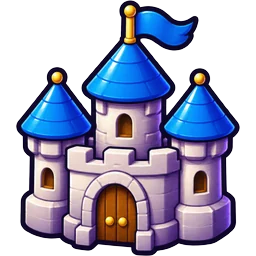
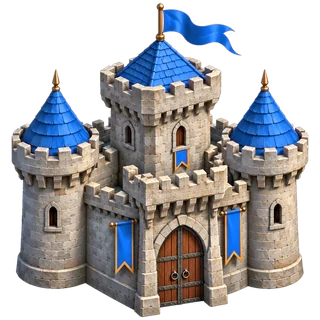
Castillos nuevos en 3D, más grandes y con halo del color del jugador
Claude-Session: https://claude.ai/code/session_017B3LDoPLe1g1uFpqTwMreP

diff --git a/backend/public/js/conquista.js b/backend/public/js/conquista.js
@@ -381,8 +381,10 @@
       if (castleOf) {
         const g = svgEl('g', {}, castleOf.eliminated ? 'castle dead' : 'castle');
         g.dataset.player = castleOf.id;
-        g.append(svgEl('ellipse', { cx: r.cx, cy: r.cy + 16, rx: 46, ry: 13 }, 'castle-shadow'));
-        const icon = svgEl('image', { x: r.cx - 58, y: r.cy - 96, width: 116, height: 116 }, 'castle-img');
+        const halo = svgEl('ellipse', { cx: r.cx, cy: r.cy + 14, rx: 62, ry: 18 }, 'castle-halo');
+        halo.style.fill = castleOf.color;
+        g.append(svgEl('ellipse', { cx: r.cx, cy: r.cy + 16, rx: 56, ry: 15 }, 'castle-shadow'), halo);
+        const icon = svgEl('image', { x: r.cx - 78, y: r.cy - 132, width: 156, height: 156 }, 'castle-img');
         icon.setAttribute('href', FX.castleSrc(castleOf.color));
         g.appendChild(icon);
         // Torres que le quedan: tres escuditos (llenos o vacíos).

diff --git a/backend/public/js/fx.js b/backend/public/js/fx.js
@@ -668,7 +668,7 @@
   const screen = (el) => retrigger(el, 'screen-in', 450);
 
   const CASTLE_BY_COLOR = { '#e5484d': 'rojo', '#3e8ef7': 'azul', '#2fbf71': 'verde' };
-  const castleSrc = (color) => `/img/castillo-${CASTLE_BY_COLOR[String(color).toLowerCase()] || 'rojo'}.webp`;
+  const castleSrc = (color) => `/img/castillo-${CASTLE_BY_COLOR[String(color).toLowerCase()] || 'rojo'}.webp?v=2`;
 
   // ---------- botón de sonido en la cabecera ----------
   function soundButton() {

diff --git a/backend/public/styles.css b/backend/public/styles.css
@@ -1257,3 +1257,5 @@ body.cq-playing .cq-player { padding: 4px 6px; }
 @media (prefers-reduced-motion: reduce) {
   .cq-map .region.pickable, .cq-map .swords { animation: none; }
 }
+.cq-map .castle-halo { opacity: 0.55; }
+.cq-map .castle.dead .castle-halo { opacity: 0.15; }

diff --git a/REZUMAT.md b/REZUMAT.md
@@ -202,7 +202,7 @@ Obiectiv: jocul să arate „ca un joc adevărat”, nu ca un site. Idei, în or
 ## 5l. Grafica Conquistei și sunete (ramura `grafica-sonidos`)
 - Harta e generată din nou din es-atlas, cu mai multe detalii (scriptul de generare nu e în repo; păstrează aceleași id-uri, centre și vecini). Aspect de „machetă”: spumă pe coastă, grosime maro sub regiuni, degradeuri pe culori, cifrele în insigne rotunde, turnurile castelului ca 3 scuturi aurii, ⚔ pe regiunea atacată, regiunile de ales se ridică și strălucesc. Fără pătratul de la atingere (tap highlight).
 - În partidă pagina ocupă tot ecranul, fără scroll: întrebarea stă într-o „foaie” peste partea de jos a hărții; harta se micșorează cât să încapă în spațiul rămas (acoperită cel mult ~45%).
-- Sunete sintetizate în `fx.js`: tobe de război la începutul bătăliei, redoblare + săbii la fiecare luptă, corn când e rândul tău, fanfară la început, fanfară când cucerești, trompete triste când pierzi o regiune, castel care se prăbușește, scut la apărare, fanfară regală la victorie. Muzică medievală de lăută în meniu (prima pagină, așteptare, meniurile +18). Butonul de sunet are 3 stări: 🎶 muzică + efecte → 🔊 doar efecte → 🔇.
+- Sunete sintetizate în `fx.js`: tobe de război la începutul bătăliei, redoblare + săbii la fiecare luptă, corn când e rândul tău, fanfară la început, fanfară când cucerești, trompete triste când pierzi o regiune, castel care se prăbușește, scut la apărare, fanfară regală la victorie. Muzică medievală de lăută în meniu (prima pagină, așteptare, meniurile +18). Castele noi 3D (generate în ChatGPT, recolorate roșu/albastru/verde, `castillo-*.webp?v=2`), mai mari pe hartă, cu un halou în culoarea jucătorului. Butonul de sunet are 3 stări: 🎶 muzică + efecte → 🔊 doar efecte → 🔇.
 
 ## 6. Alte idei în așteptare
 
